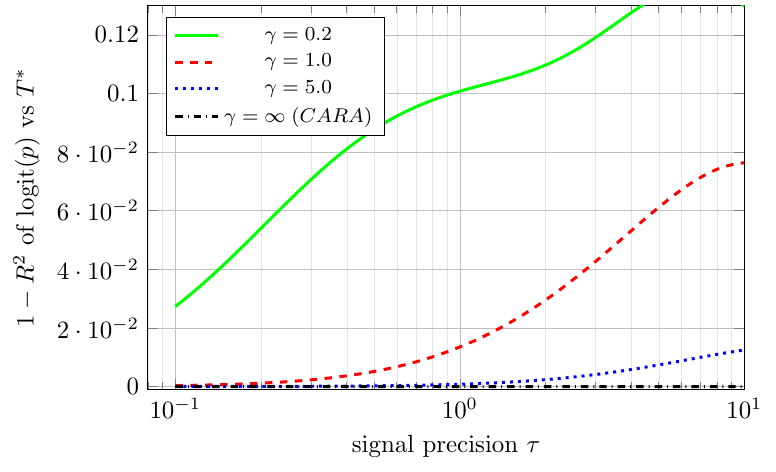
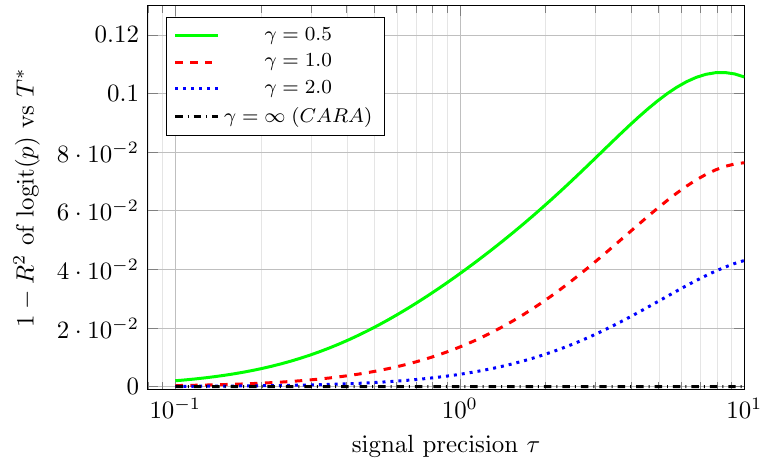
Knife-edge: γ ∈ {0.5, 1, 2, ∞}

diff --git a/figures/fig_knife_edge.tex b/figures/fig_knife_edge.tex
@@ -17,12 +17,12 @@
     legend style={font=\footnotesize},
     no markers,
 ]
-\addplot[green, solid, very thick] coordinates {(0.1,0.0272947) (0.108118,0.0298915) (0.116895,0.0326206) (0.126385,0.0354725) (0.136645,0.0384355) (0.147738,0.0414959) (0.159731,0.0446381) (0.172698,0.0478446) (0.186718,0.0510965) (0.201876,0.0543737) (0.218264,0.0576554) (0.235983,0.0609203) (0.255141,0.0641473) (0.275853,0.0673155) (0.298247,0.0704052) (0.322459,0.0733979) (0.348637,0.0762769) (0.376939,0.0790275) (0.407539,0.0816373) (0.440624,0.0840967) (0.476394,0.0863984) (0.515068,0.0885383) (0.556881,0.090515) (0.602089,0.09233) (0.650968,0.0939877) (0.703814,0.0954951) (0.76095,0.0968621) (0.822724,0.0981013) (0.889513,0.0992278) (0.961725,0.100259) (1.0398,0.101215) (1.12421,0.102119) (1.21547,0.102993) (1.31415,0.103866) (1.42083,0.104763) (1.53617,0.105713) (1.66088,0.106741) (1.79571,0.107873) (1.94149,0.109131) (2.0991,0.110537) (2.26951,0.112107) (2.45375,0.113848) (2.65295,0.115757) (2.86832,0.117816) (3.10117,0.120004) (3.35292,0.122288) (3.62512,0.124619) (3.91941,0.126929) (4.23759,0.129147) (4.5816,0.131211) (4.95354,0.13308) (5.35567,0.134709) (5.79044,0.136019) (6.26052,0.136885) (6.76875,0.137182) (7.31824,0.136841) (7.91234,0.135876) (8.55467,0.134361) (9.24915,0.132347) (10,0.129785)};
-\addlegendentry{$\gamma = 0.2$};
+\addplot[green, solid, very thick] coordinates {(0.1,0.00196689) (0.108118,0.00224974) (0.116895,0.00256914) (0.126385,0.0029289) (0.136645,0.00333305) (0.147738,0.00378578) (0.159731,0.00429143) (0.172698,0.00485441) (0.186718,0.00547918) (0.201876,0.00617018) (0.218264,0.0069317) (0.235983,0.00776788) (0.255141,0.00868256) (0.275853,0.00967919) (0.298247,0.0107608) (0.322459,0.0119298) (0.348637,0.0131881) (0.376939,0.0145369) (0.407539,0.0159766) (0.440624,0.0175069) (0.476394,0.0191269) (0.515068,0.0208349) (0.556881,0.0226286) (0.602089,0.0245053) (0.650968,0.0264618) (0.703814,0.0284948) (0.76095,0.0306009) (0.822724,0.0327768) (0.889513,0.0350195) (0.961725,0.0373265) (1.0398,0.0396959) (1.12421,0.0421265) (1.21547,0.0446178) (1.31415,0.04717) (1.42083,0.0497839) (1.53617,0.0524609) (1.66088,0.0552025) (1.79571,0.05801) (1.94149,0.0608841) (2.0991,0.0638244) (2.26951,0.066829) (2.45375,0.0698933) (2.65295,0.0730099) (2.86832,0.0761674) (3.10117,0.0793502) (3.35292,0.0825377) (3.62512,0.0857038) (3.91941,0.0888169) (4.23759,0.0918398) (4.5816,0.0947302) (4.95354,0.0974411) (5.35567,0.0999221) (5.79044,0.10212) (6.26052,0.103983) (6.76875,0.10546) (7.31824,0.106501) (7.91234,0.107066) (8.55467,0.10712) (9.24915,0.106637) (10,0.105603)};
+\addlegendentry{$\gamma = 0.5$};
 \addplot[red, dashed, very thick] coordinates {(0.1,0.000322861) (0.108118,0.000373425) (0.116895,0.000431572) (0.126385,0.000498359) (0.136645,0.000574976) (0.147738,0.00066275) (0.159731,0.000763164) (0.172698,0.000877868) (0.186718,0.00100869) (0.201876,0.00115763) (0.218264,0.00132693) (0.235983,0.00151898) (0.255141,0.00173645) (0.275853,0.00198218) (0.298247,0.00225926) (0.322459,0.00257099) (0.348637,0.0029209) (0.376939,0.00331273) (0.407539,0.00375042) (0.440624,0.00423807) (0.476394,0.00477995) (0.515068,0.00538048) (0.556881,0.00604415) (0.602089,0.00677553) (0.650968,0.0075792) (0.703814,0.00845973) (0.76095,0.00942163) (0.822724,0.0104693) (0.889513,0.0116069) (0.961725,0.0128384) (1.0398,0.0141677) (1.12421,0.015598) (1.21547,0.0171325) (1.31415,0.0187736) (1.42083,0.0205234) (1.53617,0.0223834) (1.66088,0.0243542) (1.79571,0.0264358) (1.94149,0.0286271) (2.0991,0.030926) (2.26951,0.0333289) (2.45375,0.0358308) (2.65295,0.0384247) (2.86832,0.0411017) (3.10117,0.0438503) (3.35292,0.0466563) (3.62512,0.0495022) (3.91941,0.0523675) (4.23759,0.0552279) (4.5816,0.0580552) (4.95354,0.0608179) (5.35567,0.0634805) (5.79044,0.0660049) (6.26052,0.0683502) (6.76875,0.0704742) (7.31824,0.0723342) (7.91234,0.0738888) (8.55467,0.0750989) (9.24915,0.0759301) (10,0.0763541)};
 \addlegendentry{$\gamma = 1.0$};
-\addplot[blue, dotted, very thick] coordinates {(0.1,1.08385e-05) (0.108118,1.26307e-05) (0.116895,1.47155e-05) (0.126385,1.71399e-05) (0.136645,1.99579e-05) (0.147738,2.3232e-05) (0.159731,2.70341e-05) (0.172698,3.14471e-05) (0.186718,3.65661e-05) (0.201876,4.25007e-05) (0.218264,4.93762e-05) (0.235983,5.73361e-05) (0.255141,6.65445e-05) (0.275853,7.71888e-05) (0.298247,8.9482e-05) (0.322459,0.000103667) (0.348637,0.000120017) (0.376939,0.000138844) (0.407539,0.000160499) (0.440624,0.000185377) (0.476394,0.00021392) (0.515068,0.000246624) (0.556881,0.000284041) (0.602089,0.000326787) (0.650968,0.000375541) (0.703814,0.000431053) (0.76095,0.000494147) (0.822724,0.000565724) (0.889513,0.000646761) (0.961725,0.000738318) (1.0398,0.000841535) (1.12421,0.000957629) (1.21547,0.00108789) (1.31415,0.00123368) (1.42083,0.00139642) (1.53617,0.00157757) (1.66088,0.00177862) (1.79571,0.00200108) (1.94149,0.00224644) (2.0991,0.00251612) (2.26951,0.00281148) (2.45375,0.00313373) (2.65295,0.0034839) (2.86832,0.00386278) (3.10117,0.00427084) (3.35292,0.00470818) (3.62512,0.00517444) (3.91941,0.00566872) (4.23759,0.00618951) (4.5816,0.00673461) (4.95354,0.00730107) (5.35567,0.00788512) (5.79044,0.00848216) (6.26052,0.00908676) (6.76875,0.00969269) (7.31824,0.010293) (7.91234,0.0108801) (8.55467,0.011446) (9.24915,0.0119825) (10,0.0124815)};
-\addlegendentry{$\gamma = 5.0$};
+\addplot[blue, dotted, very thick] coordinates {(0.1,6.99465e-05) (0.108118,8.12968e-05) (0.116895,9.44477e-05) (0.126385,0.000109675) (0.136645,0.000127293) (0.147738,0.000147663) (0.159731,0.000171195) (0.172698,0.000198357) (0.186718,0.000229679) (0.201876,0.000265763) (0.218264,0.00030729) (0.235983,0.000355029) (0.255141,0.000409844) (0.275853,0.000472707) (0.298247,0.000544705) (0.322459,0.000627051) (0.348637,0.000721096) (0.376939,0.000828337) (0.407539,0.00095043) (0.440624,0.0010892) (0.476394,0.00124664) (0.515068,0.00142493) (0.556881,0.00162645) (0.602089,0.00185377) (0.650968,0.00210965) (0.703814,0.00239706) (0.76095,0.00271914) (0.822724,0.00307924) (0.889513,0.00348087) (0.961725,0.00392769) (1.0398,0.0044235) (1.12421,0.00497218) (1.21547,0.0055777) (1.31415,0.00624402) (1.42083,0.00697505) (1.53617,0.00777461) (1.66088,0.00864631) (1.79571,0.00959348) (1.94149,0.0106191) (2.0991,0.0117255) (2.26951,0.0129146) (2.45375,0.0141872) (2.65295,0.0155435) (2.86832,0.0169823) (3.10117,0.0185009) (3.35292,0.0200955) (3.62512,0.02176) (3.91941,0.0234866) (4.23759,0.0252653) (4.5816,0.0270836) (4.95354,0.0289265) (5.35567,0.0307766) (5.79044,0.0326137) (6.26052,0.0344154) (6.76875,0.0361569) (7.31824,0.037812) (7.91234,0.0393528) (8.55467,0.0407514) (9.24915,0.04198) (10,0.0430123)};
+\addlegendentry{$\gamma = 2.0$};
 \addplot[black, dash dot, very thick] coordinates {(0.1,2.72929e-10) (0.108118,3.18559e-10) (0.116895,3.71774e-10) (0.126385,4.33816e-10) (0.136645,5.06135e-10) (0.147738,5.904e-10) (0.159731,6.88573e-10) (0.172698,8.02905e-10) (0.186718,9.36012e-10) (0.201876,1.09091e-09) (0.218264,1.27111e-09) (0.235983,1.48064e-09) (0.255141,1.72417e-09) (0.275853,2.00705e-09) (0.298247,2.33545e-09) (0.322459,2.71646e-09) (0.348637,3.15819e-09) (0.376939,3.66994e-09) (0.407539,4.26233e-09) (0.440624,4.94744e-09) (0.476394,5.73902e-09) (0.515068,6.65263e-09) (0.556881,7.70589e-09) (0.602089,8.91864e-09) (0.650968,1.03131e-08) (0.703814,1.19143e-08) (0.76095,1.37498e-08) (0.822724,1.58504e-08) (0.889513,1.825e-08) (0.961725,2.09857e-08) (1.0398,2.40979e-08) (1.12421,2.76303e-08) (1.21547,3.16298e-08) (1.31415,3.61461e-08) (1.42083,4.12315e-08) (1.53617,4.69402e-08) (1.66088,5.33274e-08) (1.79571,6.04486e-08) (1.94149,6.8358e-08) (2.0991,7.71069e-08) (2.26951,8.67422e-08) (2.45375,9.73034e-08) (2.65295,1.08821e-07) (2.86832,1.21312e-07) (3.10117,1.3478e-07) (3.35292,1.49207e-07) (3.62512,1.64558e-07) (3.91941,1.80768e-07) (4.23759,1.97749e-07) (4.5816,2.15383e-07) (4.95354,2.33524e-07) (5.35567,2.51997e-07) (5.79044,2.706e-07) (6.26052,2.89112e-07) (6.76875,3.07298e-07) (7.31824,3.24914e-07) (7.91234,3.41724e-07) (8.55467,3.57504e-07) (9.24915,3.72059e-07) (10,3.85234e-07)};
 \addlegendentry{$\gamma = \infty\;(\text{CARA})$};
 \end{axis}
